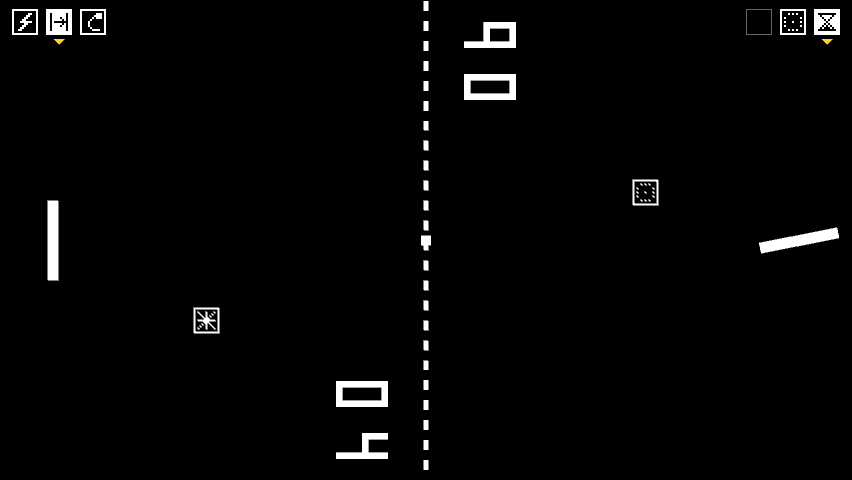
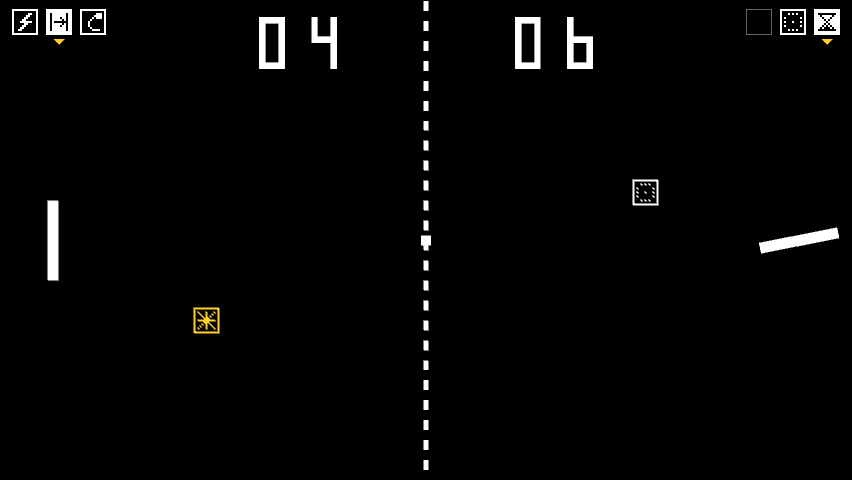
Schermate aggiornate e titolo delle mosse speciali sotto i punteggi dritti
- PC, Raspberry e web: con i punteggi dritti il titolo delle mosse speciali di NEXT copriva il
  punteggio del suo lato; ora sta sotto
- docs/screenshots: rifatte con i default di oggi (punteggi dritti) le schermate PC, la demo del
  MiSTer e quelle del C64 (bordo grigio in partita, scritte centrate); nuove schermate di
  CHALLENGE (presentazione dell'avversario, nuovo sfidante)
- Simulatore dei frame del MiSTer: opzione -u per le scritte dritte in qualunque scenario

diff --git a/mister/sim/frames/frames.cpp b/mister/sim/frames/frames.cpp
@@ -68,6 +68,8 @@
 // titolo con l'easter egg acceso).
 // Dopo lo scenario si possono indicare i frame da salvare al posto di quelli predefiniti, singoli o
 // a intervalli ("1300 1400-1420"): la simulazione si ferma all'ultimo. "-f" ignora il checkpoint.
+// "-u" mette le scritte dritte (OSD "Scores: Upright", il default del core) in qualunque scenario:
+// per le schermate del README.
 //
 // Checkpoint: al primo frame di partita (modo M_GAME, dopo la scelta dei bonus in NEXT) lo stato
 // del modello e di questo programma va in ckpt_<scenario>.bin. Le esecuzioni seguenti ripartono da
@@ -194,12 +196,14 @@ int main(int argc, char** argv) {
 
     std::string arg;
     std::set<int> requested;
-    bool fresh = false;
+    bool fresh = false, upright = false;
     for (int i = 1; i < argc; i++) {
         const std::string a = argv[i];
         int lo, hi;
         if (a == "-f")
             fresh = true;
+        else if (a == "-u")
+            upright = true;
         else if (!std::isdigit(static_cast<unsigned char>(a[0])))
             arg = a;
         else if (std::sscanf(a.c_str(), "%d-%d", &lo, &hi) == 2)
@@ -274,7 +278,7 @@ int main(int argc, char** argv) {
     top.game_type = (ch_test || chal_test || end_test || egg_test) ? 3 : (next_test || howto_test) ? 2 : 0;
     top.free_play = 0;
     top.difficulty = 1;
-    top.upright = arg == "up" || arg == "cdup" || arg == "winup";
+    top.upright = upright || arg == "up" || arg == "cdup" || arg == "winup";
     top.joy0 = top.joy1 = 0;
     top.ps2_key = 0;
     top.control = paddle_test ? 1 : spin_test ? 2 : 0;
@@ -332,7 +336,8 @@ int main(int argc, char** argv) {
         io(frame.data(), frame.size());
     };
     const std::string ckpt = "ckpt_" + (arg.empty() ? std::string("base") : arg) +
-                             (kinds_test ? "_" + std::to_string(kind_l) + std::to_string(kind_r) : std::string());
+                             (kinds_test ? "_" + std::to_string(kind_l) + std::to_string(kind_r) : std::string()) +
+                             (upright ? "_u" : "");
     uint64_t key = hash_file(argv[0], 0xcbf29ce484222325ULL);
     if (!key) key = hash_file(std::string(argv[0]) + ".exe", 0xcbf29ce484222325ULL);
     key = key ? hash_file("../../rtl/gen/sid_music.hex", key) : 0;

diff --git a/rust/game/src/next_ui.rs b/rust/game/src/next_ui.rs
@@ -1296,7 +1296,13 @@ impl NextFx {
         if game.next.as_ref().is_some_and(|n| n.super_moves) {
             let p = &game.params;
             let font = &app.assets.font_text;
-            let y = to_f32(p.capsule_margin_top) + 16.0 * s;
+            // sotto le riserve; con i punteggi dritti (che stanno proprio lì, a 42 righe su 480) sotto
+            // di loro, così il titolo, anche nella sua dimensione più grande, non li copre
+            let y = if app.cfg.game.scores_upright {
+                42.0 * h / 480.0 + 50.0 * s
+            } else {
+                to_f32(p.capsule_margin_top) + 16.0 * s
+            };
             for (side, label) in self.special_label.iter().enumerate() {
                 let Some((special, level, hit, t)) = *label else { continue };
                 // entra grande e si stringe; nell'ultima parte lampeggia come le altre scritte

diff --git a/docs/come-si-gioca.md b/docs/come-si-gioca.md
@@ -291,10 +291,12 @@ menu. Solo PAL; finora provata in VICE. Dettagli in [c64/README.md](../c64/READM
 | NEXT: ognuno sceglie 3 bonus su 6 | NEXT: riserve in alto, capsule in volo, racchetta che ruota con il SUPER |
 | ![NEXT: presentazione delle mosse speciali](screenshots/next-howto.png) | ![NEXT: STRAIGHT SHOT in volo](screenshots/next-supers.png) |
 | NEXT: HOW TO PLAY, le mosse speciali prima della partita | NEXT: barre delle mosse accanto alle riserve, STRAIGHT SHOT in volo |
+| ![CHALLENGE: presentazione dell'avversario](screenshots/challenge-intro.png) | ![CHALLENGE: nuovo sfidante](screenshots/challenge-challenger.png) |
+| CHALLENGE: presentazione del sesto avversario, RUSH | CHALLENGE: entra un secondo giocatore |
 | ![Core MiSTer: titolo](screenshots/mister-title.png) | ![Core MiSTer: demo NEXT](screenshots/mister-demo.png) |
 | Core MiSTer a 320×240: titolo dopo il gettone | Core MiSTer: demo CPU contro CPU della modalità scelta (qui NEXT) |
 | ![Commodore 64: titolo](screenshots/c64-title.png) | ![Commodore 64: partita NEXT](screenshots/c64-next.png) |
-| Commodore 64: titolo dopo il gettone | Commodore 64: NEXT contro la CPU (BLASTER, capsula del SUPER) |
+| Commodore 64: titolo in Free Play | Commodore 64: NEXT contro la CPU, con la capsula di CURVE |
 | ![Commodore 64: scelta dei bonus](screenshots/c64-pick.png) | ![Commodore 64: CHALLENGE](screenshots/c64-challenge.png) |
 | Commodore 64: scelta dei bonus (la CPU ha già scelto) | Commodore 64: presentazione del primo avversario di CHALLENGE |
 

diff --git a/README.md b/README.md
@@ -17,10 +17,10 @@ gamepad o mouse.
 |---|---|
 | ![Titolo dell'attract con il filtro CRT](docs/screenshots/attract-crt.jpg) | ![NEXT: riserve, capsule e SUPER armato](docs/screenshots/next-game.png) |
 | Titolo dell'attract, con il filtro CRT | NEXT: bonus nelle riserve in alto e capsule in volo |
-| ![NEXT: STRAIGHT SHOT in volo](docs/screenshots/next-supers.png) | ![Core MiSTer: demo NEXT](docs/screenshots/mister-demo.png) |
-| Mosse speciali: STRAIGHT SHOT in volo | Core MiSTer a 320×240 |
-| ![Commodore 64: partita NEXT](docs/screenshots/c64-next.png) | ![Commodore 64: CHALLENGE](docs/screenshots/c64-challenge.png) |
-| Commodore 64: NEXT contro la CPU | Commodore 64: il primo avversario di CHALLENGE |
+| ![NEXT: STRAIGHT SHOT in volo](docs/screenshots/next-supers.png) | ![CHALLENGE: nuovo sfidante](docs/screenshots/challenge-challenger.png) |
+| Mosse speciali: MAX STRAIGHT SHOT in volo | CHALLENGE: entra un secondo giocatore |
+| ![Core MiSTer: demo NEXT](docs/screenshots/mister-demo.png) | ![Commodore 64: partita NEXT](docs/screenshots/c64-next.png) |
+| Core MiSTer a 320×240 | Commodore 64: NEXT contro la CPU |
 
 Altre schermate in [Come si gioca](docs/come-si-gioca.md#schermate).
 

diff --git a/CHANGELOG.md b/CHANGELOG.md
@@ -427,6 +427,8 @@ crea il commit e il tag `vX.Y.Z`.
   bonus. Quando è acceso il mouse non fa più da dito nel browser.
 
 ### Corretto
+- PC, Raspberry e web: con i punteggi dritti (il default) il titolo delle mosse speciali di NEXT,
+  per esempio MAX STRAIGHT SHOT, copriva il punteggio del suo lato; ora sta sotto i punteggi.
 - Web, Android: **"glBindTexture called with an already deleted texture"** nel riquadro degli
   errori. I titoli delle mosse speciali di NEXT si ingrandiscono e a ogni frame mettevano nell'atlante
   dei caratteri di macroquad le lettere a una dimensione nuova: l'atlante cresceva senza fine e,
